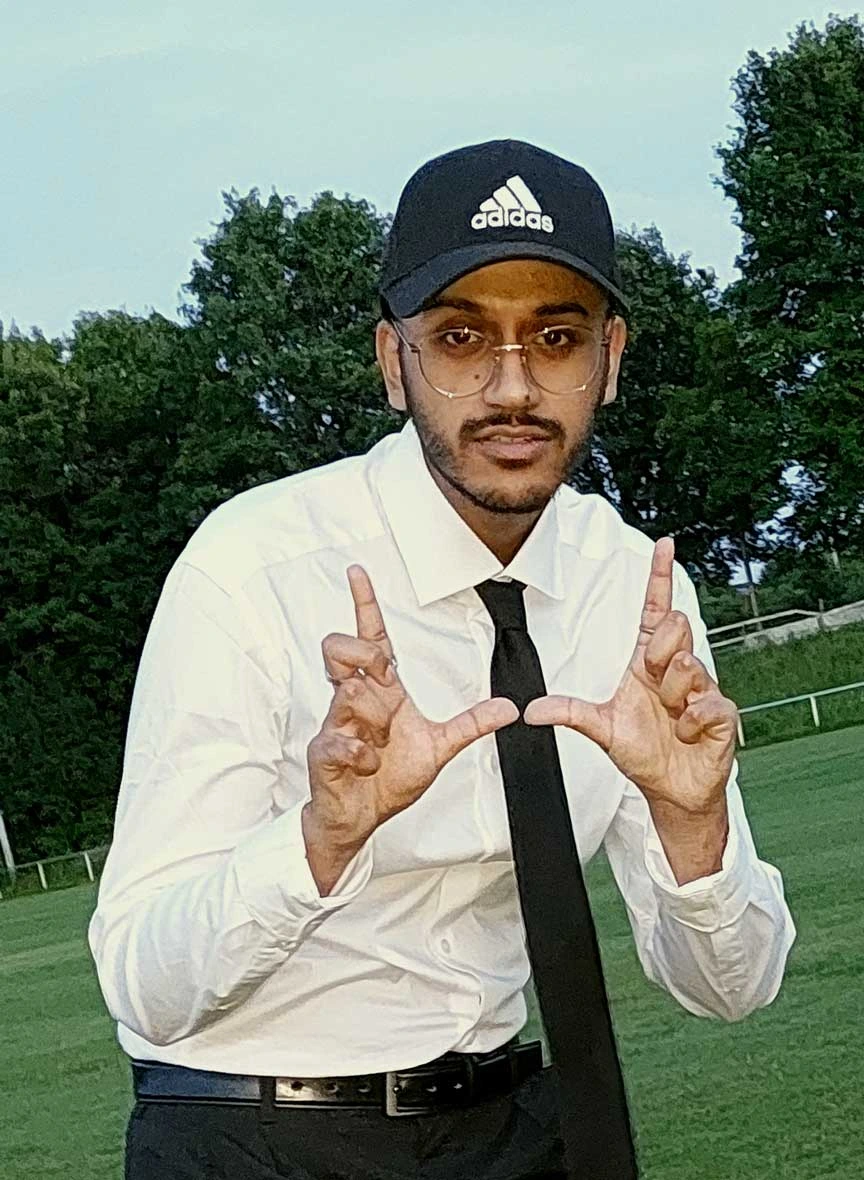
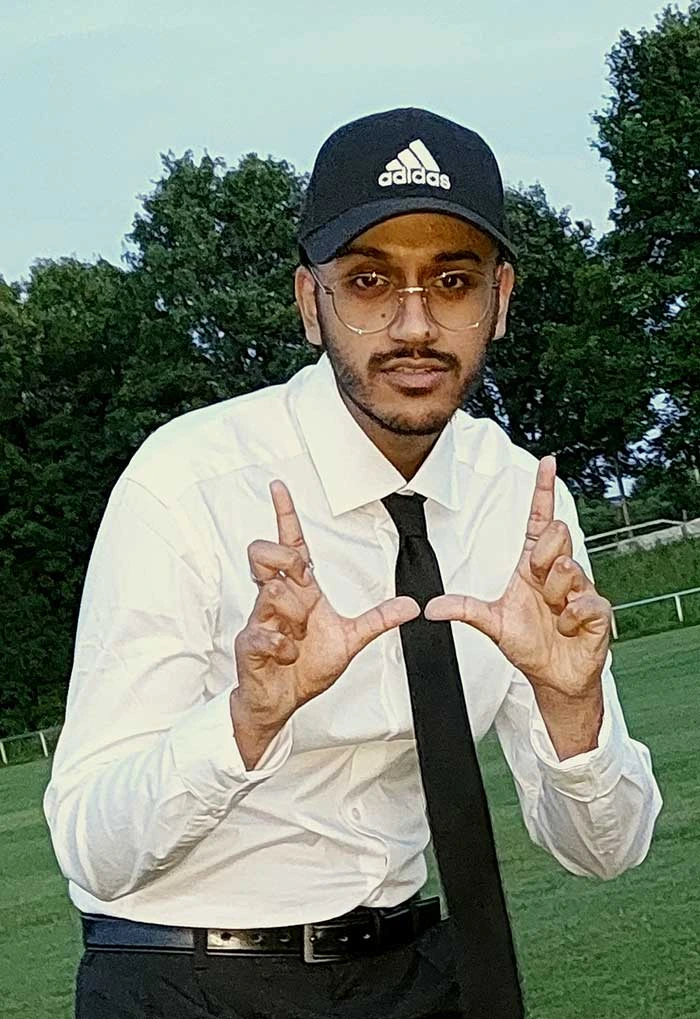
Bilder aktualiesiert

diff --git a/programm.html b/programm.html
@@ -149,7 +149,7 @@
                 <div>
                     <details>
                          <summary>
-                            <img loading="lazy" src="bilder/programm/ws25.por-ACIDSOUP-Jonas_Stadter.jpg"  width="280px">
+                            <img loading="lazy" src="bilder/programm/ws25.por-ACIDSOUP-Jonas_Stadter.webp"  width="280px">
                             <p>12 — 13h</p>
                             <h3>Workshop</h3>
                             <h2>Edgar Koop und Jonas Stadter</h2>
@@ -172,7 +172,7 @@
                 <div>
                      <details>
                          <summary>
-                            <img loading="lazy" src="bilder/programm/werkschauVernissage2.JPG">
+                            <img loading="lazy" src="bilder/programm/werkschauVernissage2.webp">
                             <p>13 — 13 45h</p>
                             <h3>Zeig es uns!</h3>
                             <h2>Mappenberatung<br><br></h2>                    
@@ -187,7 +187,7 @@
                 <div>
                     <details>
                          <summary>
-                             <img loading="lazy" src="bilder/programm/ws25.por-JCHamilius.jpg" width="280px">
+                             <img loading="lazy" src="bilder/programm/ws25.por-JCHamilius.webp" width="280px">
                              <p>14 — 15 30h</p>
                              <h3>Workshop</h3>
                              <h2>Jean-Claude Hamilius</h2>
@@ -208,7 +208,7 @@
                 <div>
                     <details>
                          <summary>
-                            <img loading="lazy" src="bilder/programm/ws25-komma-cover.png">
+                            <img loading="lazy" src="bilder/programm/ws25-komma-cover.webp">
                             <p>16h</p>
                             <h3>Event</h3>
                             <h2>Komma release<br><br></h2>
@@ -228,7 +228,7 @@
                 <div>
                     <details>
                          <summary>
-                            <img loading="lazy" src="bilder/programm/ws25.por-paul_hartmann.jpg" width="280px">
+                            <img loading="lazy" src="bilder/programm/ws25.por-paul_hartmann.webp" width="280px">
                             <p>16 30 — 18h</p>
                             <h3>Workshop</h3>
                             <h2>Paul <br>Hartmann</h2>
@@ -272,7 +272,7 @@
                 <div>
                     <details>
                          <summary>
-                            <img loading="lazy" src="bilder/programm/ws25.por-falk_kastell.jpg" width="280px">
+                            <img loading="lazy" src="bilder/programm/ws25.por-falk_kastell.webp" width="280px">
                             <p>12 — 14h</p>
                             <h3>Duftlabor workshop</h3>
                             <h2>Falk </h2>
@@ -299,7 +299,7 @@
                 <div>
                      <details>
                          <summary>
-                             <img loading="lazy" src="bilder/programm/werkschauVernissage2.JPG">
+                             <img loading="lazy" src="bilder/programm/werkschauVernissage2.webp">
                              <p>14 — 15h</p>
                              <h3>Zeig es uns!</h3>
                              <h2>Mappenberatung<br><br></h2>
@@ -316,7 +316,7 @@
                     <details>
                          <summary>
                             <div class="expand">
-                            <img loading="lazy" src="bilder/programm/ws25.por.martin.jpg" width="100px">
+                            <img loading="lazy" src="bilder/programm/ws25.por.martin.webp" width="100px">
                             </div>
                         </summary>
                     </details>
